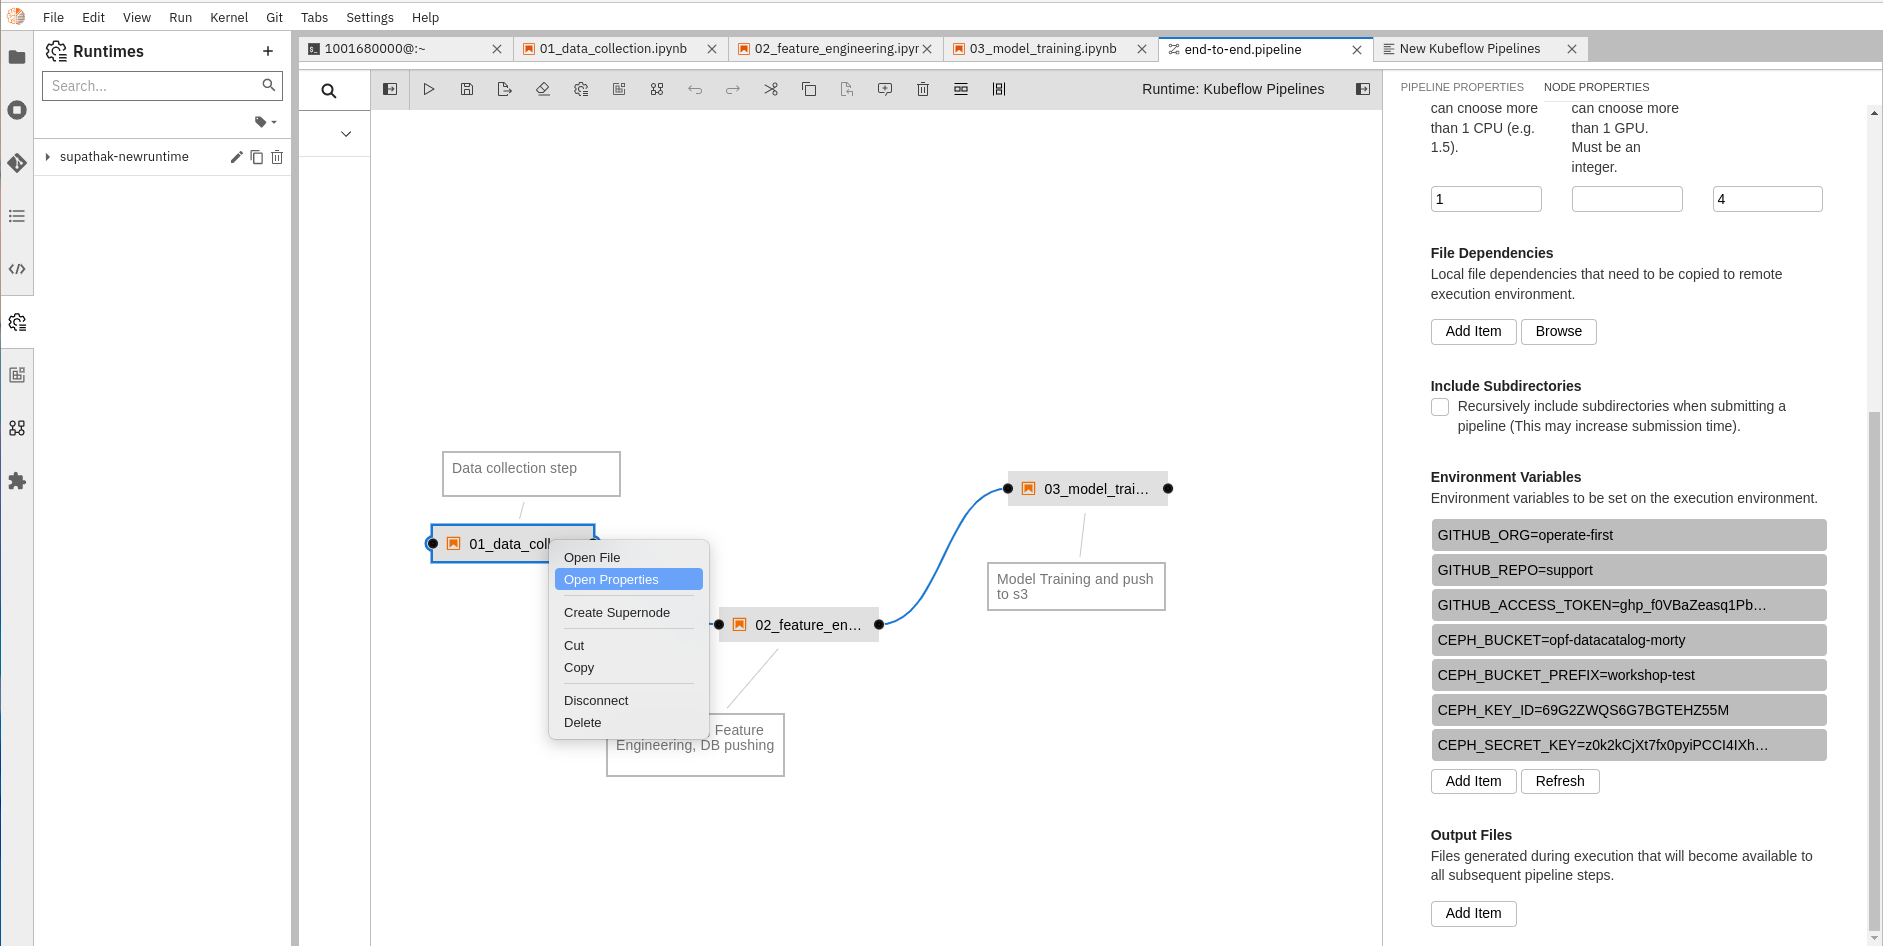
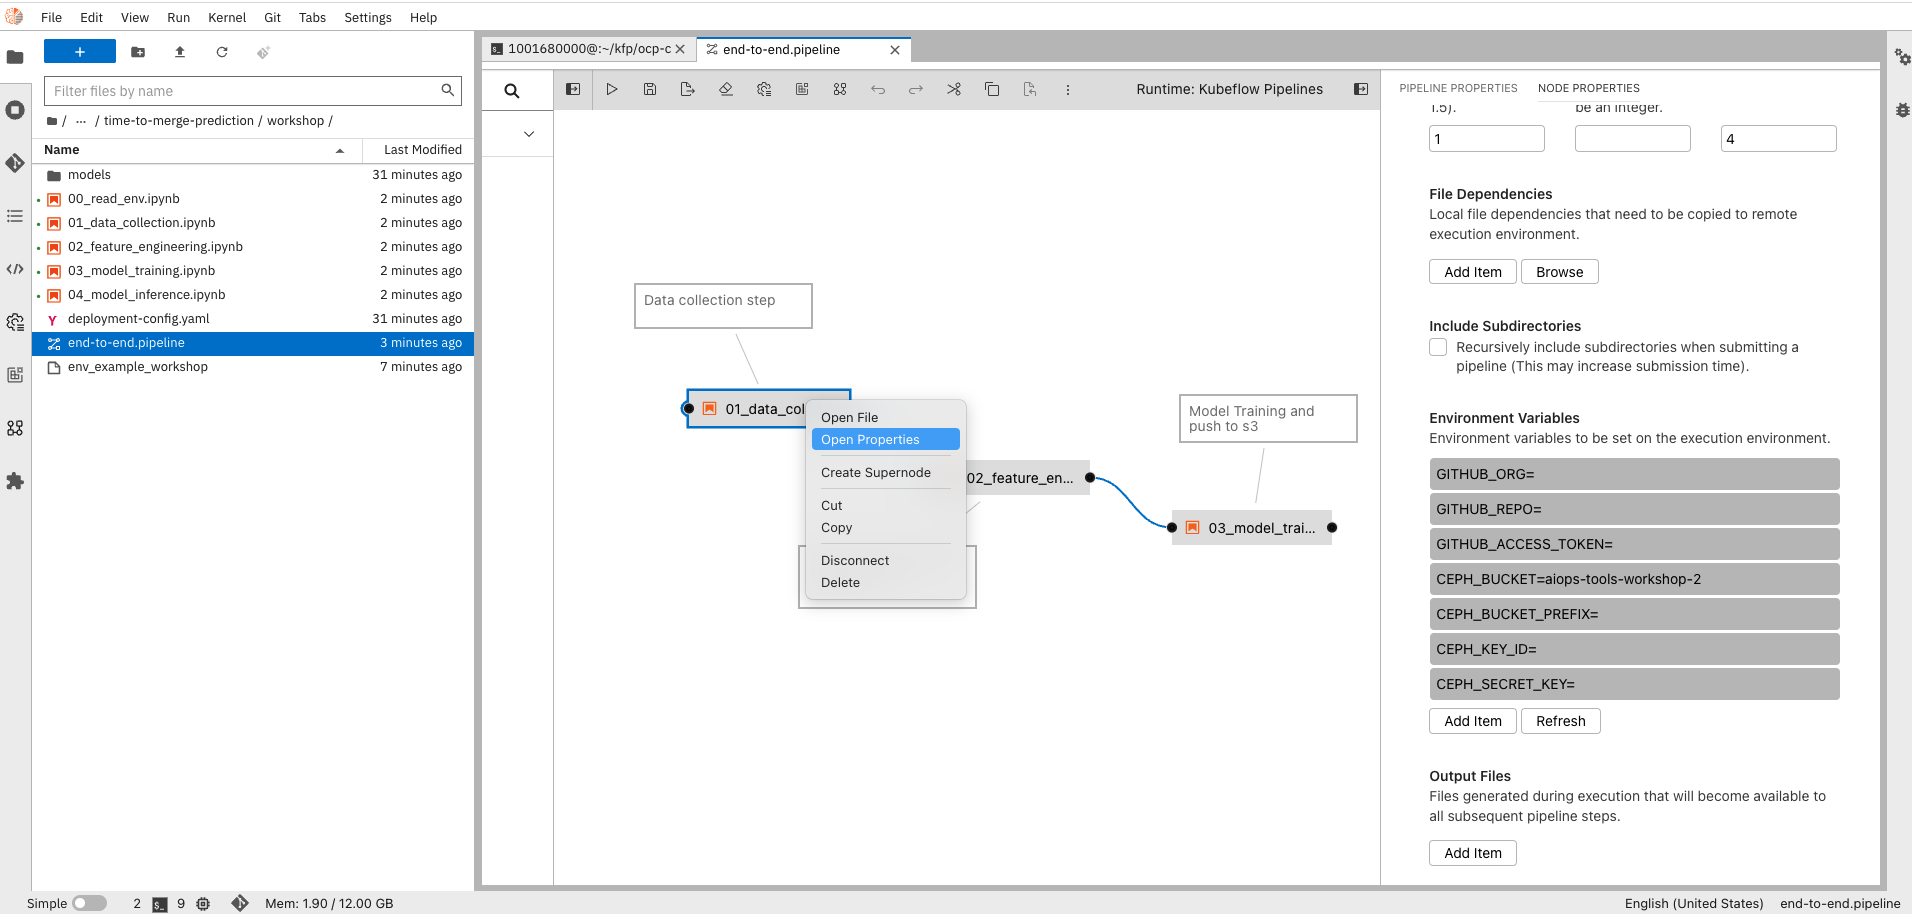
modified code, docs, pipeline to use  kubernetes secret

Changed region(s): [[0.0, 0.0, 1.0, 1.0], [0.3388, 0.3063, 0.4312, 0.337]]

diff --git a/docs/workshop/model_development.md b/docs/workshop/model_development.md
@@ -37,7 +37,7 @@ Once you have cloned the repository, [cd](https://linuxize.com/post/linux-cd-com
 
 `vi .env`
 
-[Add](https://www.cs.colostate.edu/helpdocs/vi.html) the following contents to the .env file. For env file refer to this [link](https://vault.bitwarden.com/#/send/zTA4PuNJwEW6kq7ZAUnY8g/pf51QZhZcEQ4QCEN7Lbszw). The password to this vault will be shared during the workshop. Copy the contents of the file from bitwarden and paste it in your `.env` file. Make the following changes to your `.env` file.
+[Add](https://www.cs.colostate.edu/helpdocs/vi.html) the following contents to the .env file. For env file refer to this [link](https://vault.bitwarden.com/#/send/zTA4PuNJwEW6kq7ZAUnY8g/pf51QZhZcEQ4QCEN7Lbszw). The password to this vault will be shared during the workshop. Copy the contents of the file from the Bitwarden vault and paste it in your `.env` file. Make the following changes to your `.env` file.
 
 For an example `.env` file refer to this [sample env file](../../notebooks/time-to-merge-prediction/workshop/env_example_workshop).
 
@@ -45,7 +45,7 @@ For an example `.env` file refer to this [sample env file](../../notebooks/time-
 
 Modify the following fields in the .env file:
 
-```
+
    - **GITHUB_REPO**=(Optional - Can also use default) Specify Github repository that you wish to download
 
    - **GITHUB_ORG**=(Optional - Can also use default) Github organization that the repository belongs to. If it's on your personal account, this will be your username.
@@ -58,7 +58,6 @@ Modify the following fields in the .env file:
 
    - **REMOTE**=Recommend keeping this to 1 unless you want to download and save files locally.
 
-```
 
 [Save](https://www.cs.colostate.edu/helpdocs/vi.html) the file and start going over the notebooks.
 
@@ -79,7 +78,7 @@ The aim of the model that we are training is to take a Github repository of inte
 
 ### Data collection
 
-In order to collect the data from Github repositories, we use the thoth-station [MI- Scheduler](https://github.com/thoth-station/mi-scheduler) that collects and analyzes metadata information from Github repositories and stores them on ceph object storage. We use the MI-Scheduler tool to collect Pull Request data from a repository of your choice.
+In order to collect the data from Github repositories, we use the thoth-station [MI- Scheduler](https://github.com/thoth-station/mi-scheduler) that collects and analyzes metadata information from Github repositories and stores them on S3 object storage. We use the MI-Scheduler tool to collect Pull Request data from a repository of your choice.
 
 ### Feature engineering
 

diff --git a/docs/workshop/model_deployment.md b/docs/workshop/model_deployment.md
@@ -1,6 +1,6 @@
 # Model Deployment
 
-Once you complete the process of feature engineering and model training and come up with the best possible model. It is now time to deploy your model as a service. We use [Seldon](https://docs.seldon.io/projects/seldon-core/en/latest/wrappers/s2i.html) Operator on Red Hat OpenShift in order to create an endpoint which can be accessed from a terminal or jupyter notebook or can even be integrated with a bot which can directly comment on your new PullRequest.
+Once you complete the process of feature engineering and model training and come up with the best possible model. It is now time to deploy your model as a service. We use [Seldon](https://docs.seldon.io/projects/seldon-core/en/latest/wrappers/s2i.html) Operator on Red Hat OpenShift in order to create an endpoint which can be accessed from a terminal or jupyter notebook or can even be integrated with a bot which can directly comment on your new pull request.
 
 In order to deploy your model,
 
@@ -50,11 +50,11 @@ Here you can again see the list of different routes for different services. In o
 
 ![deployment_config](../assets/images/OpenShift_console8.png)
 
-- Name : You can give any name you like
-- Host name: It will be generated later. No need to write.
-- Path : /predict
-- Service: It is the classifier service from the yaml file created while creating Seldon Deployments. You can select that service from the drop down. If you need to check it, you can go to services and clicking on it will show us the owner of the service.
-- Target Service: After you select your service, you should see the target port to be either 9000/6000/5000. You can select 9000.
+- **Name** : You can give any name you like
+- **Host name** : It will be generated later. No need to write.
+- **Path** : /predict
+- **Service** : It is the classifier service from the yaml file created while creating Seldon Deployments. You can select that service from the drop down. If you need to check it, you can go to services and clicking on it will show us the owner of the service.
+- **Target Service** : After you select your service, you should see the target port to be either 9000/6000/5000. You can select 9000.
 
 9. Now click to create a service. Once you do that. Your route will be created which contains model endpoint location.
 

diff --git a/docs/workshop/ml_pipeline.md b/docs/workshop/ml_pipeline.md
@@ -1,6 +1,6 @@
 # Create an ML Pipeline using Elyra and Kubeflow Pipelines
 
-In this section, we will learn how to run the training pipeline of the ML model in automation. To learn more about the training process, refer to the chanper on [Model Development](https://aicoe-aiops.github.io/ocp-ci-analysis/docs/workshop/model_development.html). In order to run te above notebooks in automation, we use [Kubeflow Pipelines](https://www.kubeflow.org/docs/components/pipelines/introduction/) and [elyra notebook pipelines visual editor](https://elyra.readthedocs.io/en/stable/).
+In this section, we will learn how to run the training pipeline of the ML model in automation. To learn more about the training process, refer to the chapter on [Model Development](https://aicoe-aiops.github.io/ocp-ci-analysis/docs/workshop/model_development.html). In order to run te above notebooks in automation, we use [Kubeflow Pipelines](https://www.kubeflow.org/docs/components/pipelines/introduction/) and [elyra notebook pipelines visual editor](https://elyra.readthedocs.io/en/stable/).
 
 ## Create kubeflow runtime configuration
 
@@ -14,9 +14,10 @@ Click the Runtimes icon on the left hand side toolbar. Click the ‘+’ on the 
 * **Authentication Type:** No Authentication
 * **Cloud Object Storage Endpoint:** S3 Endpoint
 * **Cloud Object Storage Bucket Name:** S3 Bucket Name
-* **Cloud Object Storage Authentication Type:** USER_CREDENTIALS
-* **Cloud Object Storage Username:** S3 Access Key ID
-* **Cloud Object Storage Password:** S3 Secret Key
+* **Cloud Object Storage Authentication Type:** KUBERNETES_SECRET
+* **Cloud Object Storage Credentials Secret:** aiops-tools-workshop-s3
+* **Cloud Object Storage Username:** AWS Access Key ID
+* **Cloud Object Storage Password:** AWS Secret Key
 
 ![kubeflow pipeline runtime config](../assets/images/ml-pipeline-kfp-config.png "image_tooltip")
 

diff --git a/docs/workshop/sql_query_engine.md b/docs/workshop/sql_query_engine.md
@@ -24,7 +24,7 @@ To verify that the table was created, we run a `select query` from the notebook,
 
 ![create trino tables](../assets/images/trino-view-table.png).
 
-To verify that it was created succesfully from the Cloudbeaver UI, login into [Cloudbeaver](http://cloudbeaver-aiops-tools-workshop.apps.smaug.na.operate-first.cloud/).
+To verify that it was created successfully from the Cloudbeaver UI, login into [Cloudbeaver](http://cloudbeaver-aiops-tools-workshop.apps.smaug.na.operate-first.cloud/).
 
 ![create trino tables](../assets/images/cloudbeaver-logged-in.png)
 
@@ -35,4 +35,4 @@ Double click on the table and it should show the contents of the table.
 ![create trino tables](../assets/images/cloudbeaver-view-table.png)
 
 
-Once you confirm that this table is created succesfully, you can move on to creating a Superset dashboard in the [next chapter](./visualization_dashboard.md)
+Once you confirm that this table is created successfully, you can move on to creating a Superset dashboard in the [next chapter](./visualization_dashboard.md)

diff --git a/docs/workshop/visualization_dashboard.md b/docs/workshop/visualization_dashboard.md
@@ -62,7 +62,7 @@ Here's how your dashboard would look like -
 ![alt_text](../assets/images/superset-dash7.png "image_tooltip")
 
 
-And that's it, now you have learnt how to create visualizations in Apache Superset using tables created from data collected from a Github repository.
+And that's it, now you have learned how to create visualizations in Apache Superset using tables created from data collected from a Github repository.
 
 To learn more about Superset and look at some already prepared Dashboards by our team:
 
